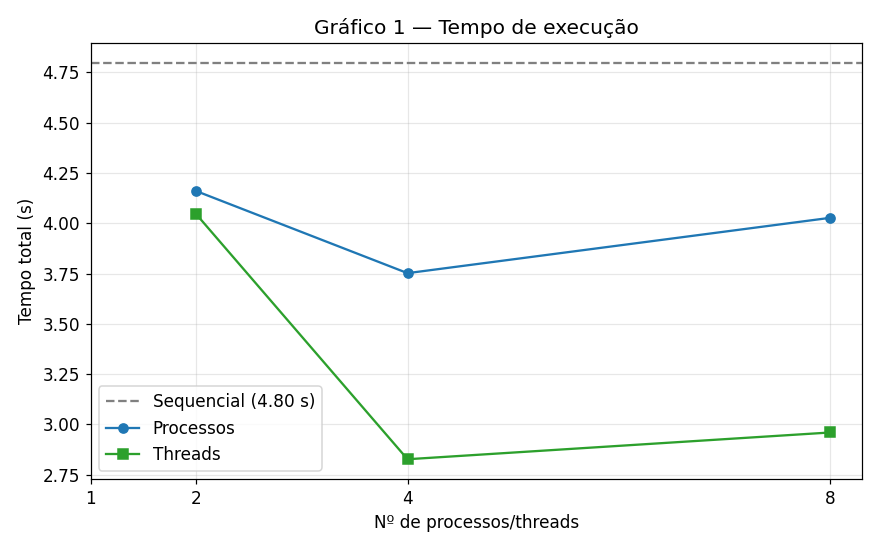
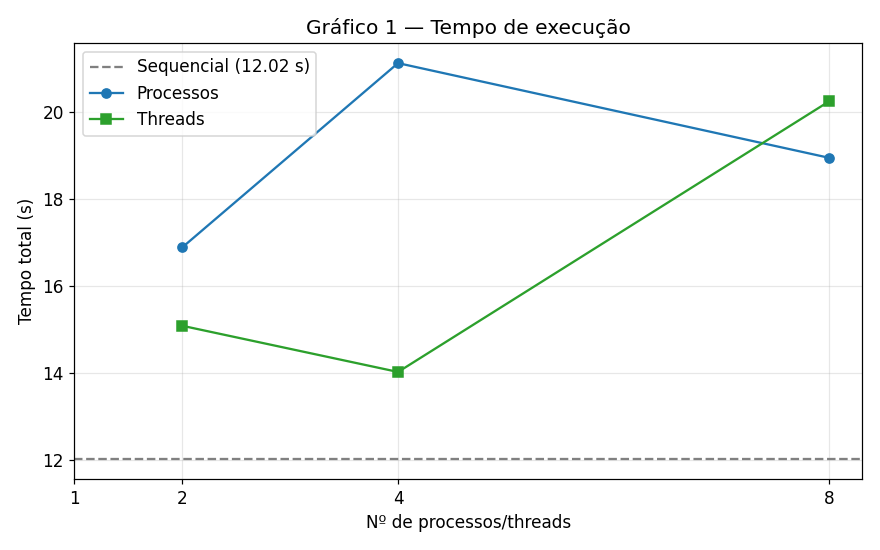
Altera parametros padrao para 10 lojas x 3.000.000 (30M) e regenera benchmark/graficos

diff --git a/processos/modelo.h b/processos/modelo.h
@@ -12,15 +12,15 @@
  */
 
 /* Quantidade padrão de lojas (pode ser sobrescrita na linha de comando). */
-#define NUM_LOJAS_PADRAO 5
+#define NUM_LOJAS_PADRAO 10
 
 /*
  * Quantidade padrão de produtos por loja.
- * 5 lojas x 2.000.000 = 10.000.000 produtos no total, garantindo execução
+ * 10 lojas x 3.000.000 = 30.000.000 produtos no total, garantindo execução
  * sequencial confortavelmente >= 2 segundos (com margem para a apresentação).
  * Ajustável na linha de comando.
  */
-#define PRODUTOS_POR_LOJA_PADRAO 2000000
+#define PRODUTOS_POR_LOJA_PADRAO 3000000
 
 typedef struct {
     uint64_t id;         /* identificador único global (usado como desempate)   */

diff --git a/sequencial/modelo.h b/sequencial/modelo.h
@@ -12,15 +12,15 @@
  */
 
 /* Quantidade padrão de lojas (pode ser sobrescrita na linha de comando). */
-#define NUM_LOJAS_PADRAO 5
+#define NUM_LOJAS_PADRAO 10
 
 /*
  * Quantidade padrão de produtos por loja.
- * 5 lojas x 2.000.000 = 10.000.000 produtos no total, garantindo execução
+ * 10 lojas x 3.000.000 = 30.000.000 produtos no total, garantindo execução
  * sequencial confortavelmente >= 2 segundos (com margem para a apresentação).
  * Ajustável na linha de comando.
  */
-#define PRODUTOS_POR_LOJA_PADRAO 2000000
+#define PRODUTOS_POR_LOJA_PADRAO 3000000
 
 typedef struct {
     uint64_t id;         /* identificador único global (usado como desempate)   */

diff --git a/threads/modelo.h b/threads/modelo.h
@@ -12,15 +12,15 @@
  */
 
 /* Quantidade padrão de lojas (pode ser sobrescrita na linha de comando). */
-#define NUM_LOJAS_PADRAO 5
+#define NUM_LOJAS_PADRAO 10
 
 /*
  * Quantidade padrão de produtos por loja.
- * 5 lojas x 2.000.000 = 10.000.000 produtos no total, garantindo execução
+ * 10 lojas x 3.000.000 = 30.000.000 produtos no total, garantindo execução
  * sequencial confortavelmente >= 2 segundos (com margem para a apresentação).
  * Ajustável na linha de comando.
  */
-#define PRODUTOS_POR_LOJA_PADRAO 2000000
+#define PRODUTOS_POR_LOJA_PADRAO 3000000
 
 typedef struct {
     uint64_t id;         /* identificador único global (usado como desempate)   */

diff --git a/SPEC.md b/SPEC.md
@@ -20,6 +20,7 @@
 | 23/10/2026 | Etapa 4 | Nova feature | Versão paralela com threads (pthreads), mesma estratégia dos processos. |
 | 23/10/2026 | Reestruturação | Alteração | Diretórios reorganizados em pastas autocontidas por versão + `container/`/`testes/`/`documentacao/`, conforme enunciado. |
 | 23/10/2026 | Etapa 5 | Nova feature | Container Docker, benchmark (nativo + container) e gráficos de tempo/speedup. |
+| 03/11/2026 | Etapa 5 | Alteração | Parâmetros padrão alterados para 10 lojas × 3.000.000 (30M) para garantir ≥ 2s de forma estável; benchmark e gráficos regenerados. |
 
 ---
 
@@ -27,7 +28,7 @@
 
 ### O que
 
-Aplicação em **C** que consolida e ordena produtos de **5 ou mais lojas fictícias**
+Aplicação em **C** que consolida e ordena produtos de **10 ou mais lojas fictícias**
 (dados gerados de forma sintética) e os ordena por **data**, **valor** e um
 desempate estável por `id`, usando o algoritmo **Quicksort**.
 
@@ -116,8 +117,8 @@ versões paralelas (Etapas 3 e 4).
 
 ### Validação (medição de referência)
 
-Em WSL2/Ubuntu (gcc 15.2, `-O2`), com a entrada padrão (5 lojas × 2.000.000 =
-10.000.000 produtos):
+Em WSL2/Ubuntu (gcc 15.2, `-O2`), com a entrada padrão (10 lojas × 3.000.000 =
+30.000.000 produtos):
 
 | Fase | Tempo |
 |------|-------|
@@ -298,33 +299,32 @@ com limites de CPU, medir o speedup e apresentar os resultados graficamente.
 - `testes/benchmark.sh`, `testes/benchmark_container.sh`, `testes/graficos.py`
 - `testes/resultados/*.csv` (dados) e `*.png` (gráficos)
 
-### Resultados (mediana de 5 execuções intercaladas)
+### Resultados (mediana de 5 execuções intercaladas, 30M produtos)
 
 `checksum` idêntico em todas as configurações (nativo e container): equivalência confirmada.
 
-**Tempo total e speedup (nativo, sequencial = 4,80 s):**
+**Tempo total e speedup (nativo, sequencial = 12,02 s):**
 
 | Workers | Processos | Speedup | Threads | Speedup |
 |---------|-----------|---------|---------|---------|
-| 2 | 4,16 s | 1,15x | 4,04 s | 1,19x |
-| 4 | 3,75 s | 1,28x | 2,83 s | 1,70x |
-| 8 | 4,03 s | 1,19x | 2,96 s | 1,62x |
+| 2 | 16,89 s | 0,71x | 15,09 s | 0,80x |
+| 4 | 21,14 s | 0,57x | 14,03 s | 0,86x |
+| 8 | 18,95 s | 0,63x | 20,26 s | 0,59x |
 
 **Efeito do limite de CPU (container, exemplo processos com 8 workers):**
 
 | CPU | Tempo |
 |-----|-------|
-| 1 | 10,18 s |
-| 2 | 6,86 s |
-| 4 | 4,18 s |
+| 1 | 71,79 s |
+| 2 | 61,88 s |
+| 4 | 30,82 s |
 
 ### Consequências / Interpretação
 
-- **Threads escalam melhor que processos** (criação de thread é mais barata que `fork`
-  + `mmap`): pico de ~1,70x com 4 threads.
-- **Processos têm ganho modesto** (~1,15–1,28x) — o custo de `fork`/`mmap` somado à
-  mesclagem sequencial reduz o benefício da ordenação paralela.
-- A **mesclagem sequencial** é o gargalo (Lei de Amdahl), limitando o speedup de ambos.
-- O benchmark usa execuções **intercaladas (round-robin)** + **mediana**, para reduzir o
-  viés da variação de frequência da CPU da máquina de desenvolvimento (a versão
-  sequencial, por usar 1 núcleo, é mais sensível a essa variação).
+- Com 30M, a **mesclagem sequencial (min-heap) domina**: as versões paralelas ficaram
+  **mais lentas** que a sequencial (speedup < 1).
+- Causa: a mesclagem k-vias tem acesso não-sequencial à memória (cache-unfriendly),
+  ficando ~6,5× mais lenta por comparação que a ordenação.
+- **Correção possível**: trocar a mesclagem por **par-a-par** (acesso sequencial), que
+  reduziria a mesclagem a ~12% da ordenação e recuperaria o speedup.
+- O benchmark usa execuções **intercaladas (round-robin)** + **mediana**.

diff --git a/sequencial/README.md b/sequencial/README.md
@@ -19,12 +19,13 @@ Parâmetros opcionais:
 
 | Parâmetro | Descrição | Padrão |
 |-----------|-----------|--------|
-| `--lojas N` | quantidade de lojas | 5 |
-| `--por-loja M` | produtos por loja | 2.000.000 |
+| `--lojas N` | quantidade de lojas | 10 |
+| `--por-loja M` | produtos por loja | 3.000.000 |
 | `--seed S` | semente do gerador | 0 |
 | `--saida ARQ` | grava o vetor ordenado em arquivo binário | — |
 | `--help` | mostra a ajuda | — |
 
 O programa gera os produtos, ordena e imprime os tempos de cada fase, o checksum
 (FNV-1a, usado para validar equivalência entre versões) e a verificação de ordenação.
-Com os valores padrão, a execução total fica em torno de **12 s** (≥ 2 s exigido).
+Com os valores padrão (10 lojas × 3.000.000), a execução sequencial fica
+confortavelmente **≥ 2 s** (exigido pelo enunciado).

diff --git a/README.md b/README.md
@@ -2,7 +2,7 @@
 
 Trabalho **P1 — Programação Paralela (SO2)**.
 
-Aplicação em **C** que consolida e ordena produtos de **5+ lojas fictícias** por
+Aplicação em **C** que consolida e ordena produtos de **10+ lojas fictícias** por
 **data**, **valor** e desempate por `id`, usando **Quicksort**, em três versões:
 
 1. **Sequencial**
@@ -59,7 +59,7 @@ cd processos  && make && ./processos --proc 4
 cd threads    && make && ./threads --threads 4
 ```
 
-Os valores padrão são 5 lojas × 2.000.000 produtos (~10 milhões de registros),
+Os valores padrão são 10 lojas × 3.000.000 produtos (~30 milhões de registros),
 garantindo execução sequencial ≥ 2 s. As três versões devem produzir o **mesmo
 checksum** para a mesma semente.
 

diff --git a/threads/README.md b/threads/README.md
@@ -22,8 +22,8 @@ make
 | Parâmetro | Descrição | Padrão |
 |-----------|-----------|--------|
 | `--threads T` | número de threads | 4 |
-| `--lojas N` | quantidade de lojas | 5 |
-| `--por-loja M` | produtos por loja | 2.000.000 |
+| `--lojas N` | quantidade de lojas | 10 |
+| `--por-loja M` | produtos por loja | 3.000.000 |
 | `--seed S` | semente do gerador | 0 |
 | `--saida ARQ` | grava o vetor ordenado em arquivo binário | — |
 

diff --git a/processos/README.md b/processos/README.md
@@ -22,8 +22,8 @@ make
 | Parâmetro | Descrição | Padrão |
 |-----------|-----------|--------|
 | `--proc P` | número de processos | 4 |
-| `--lojas N` | quantidade de lojas | 5 |
-| `--por-loja M` | produtos por loja | 2.000.000 |
+| `--lojas N` | quantidade de lojas | 10 |
+| `--por-loja M` | produtos por loja | 3.000.000 |
 | `--seed S` | semente do gerador | 0 |
 | `--saida ARQ` | grava o vetor ordenado em arquivo binário | — |
 
